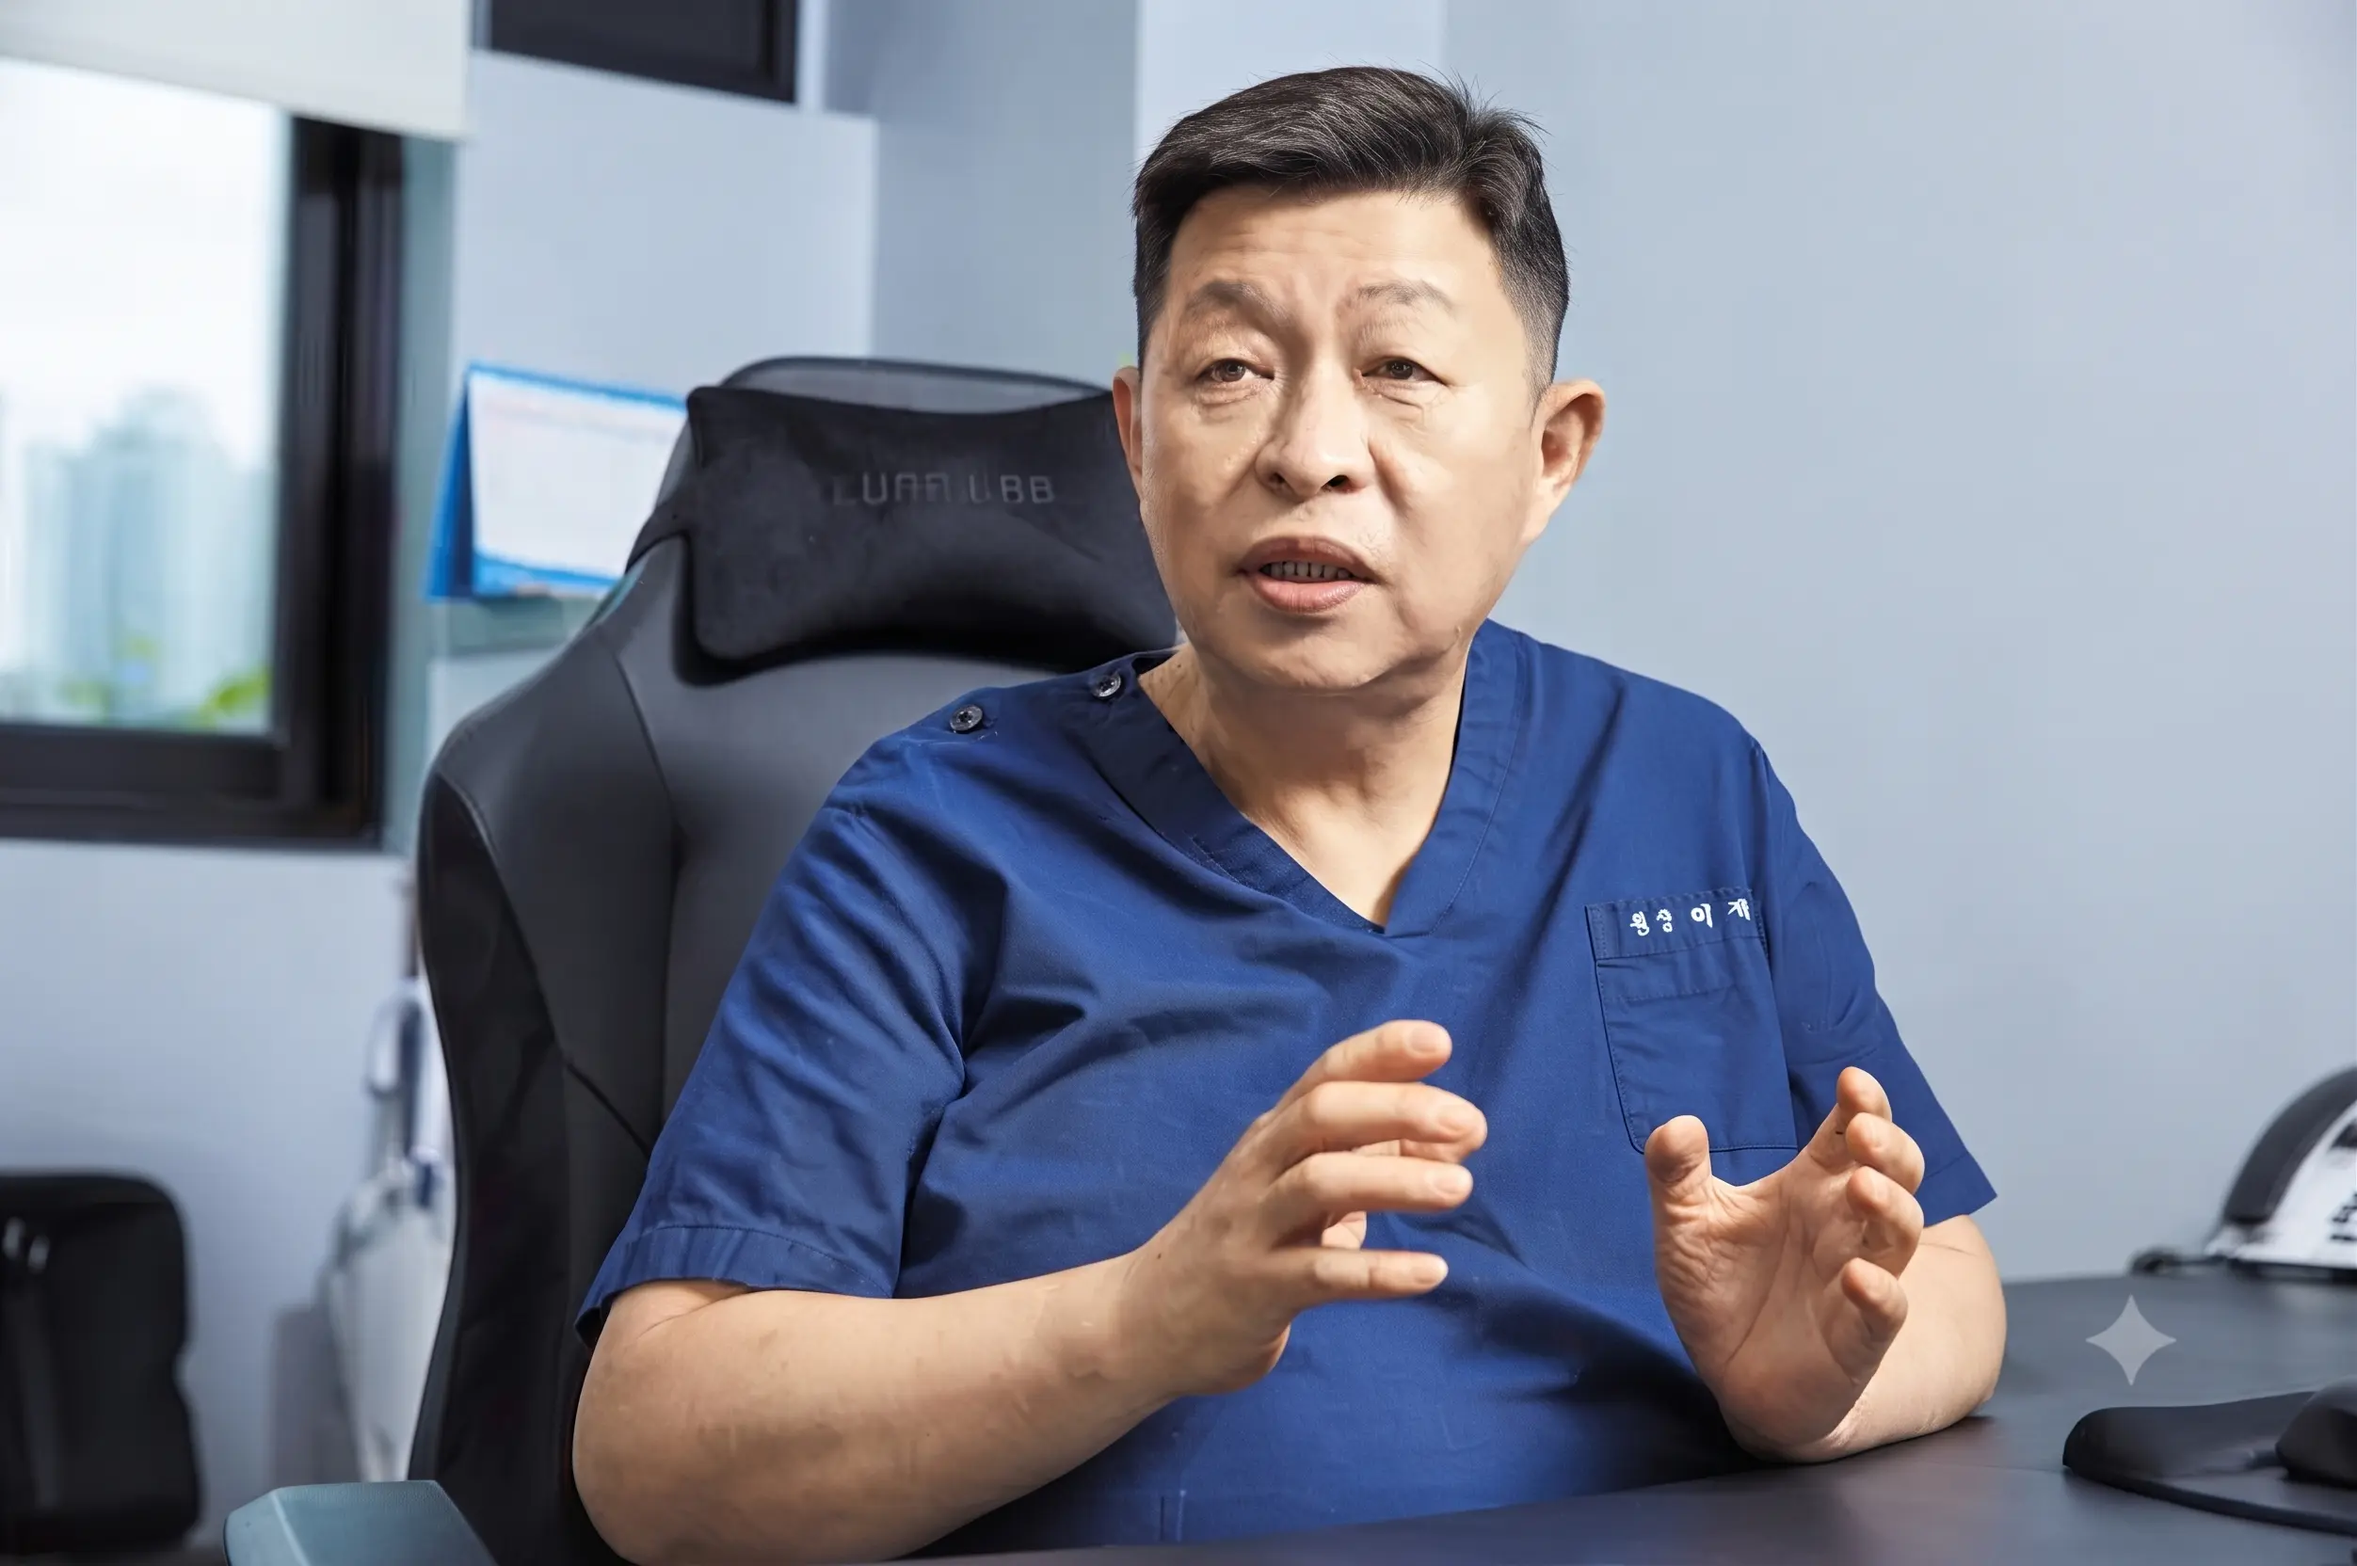
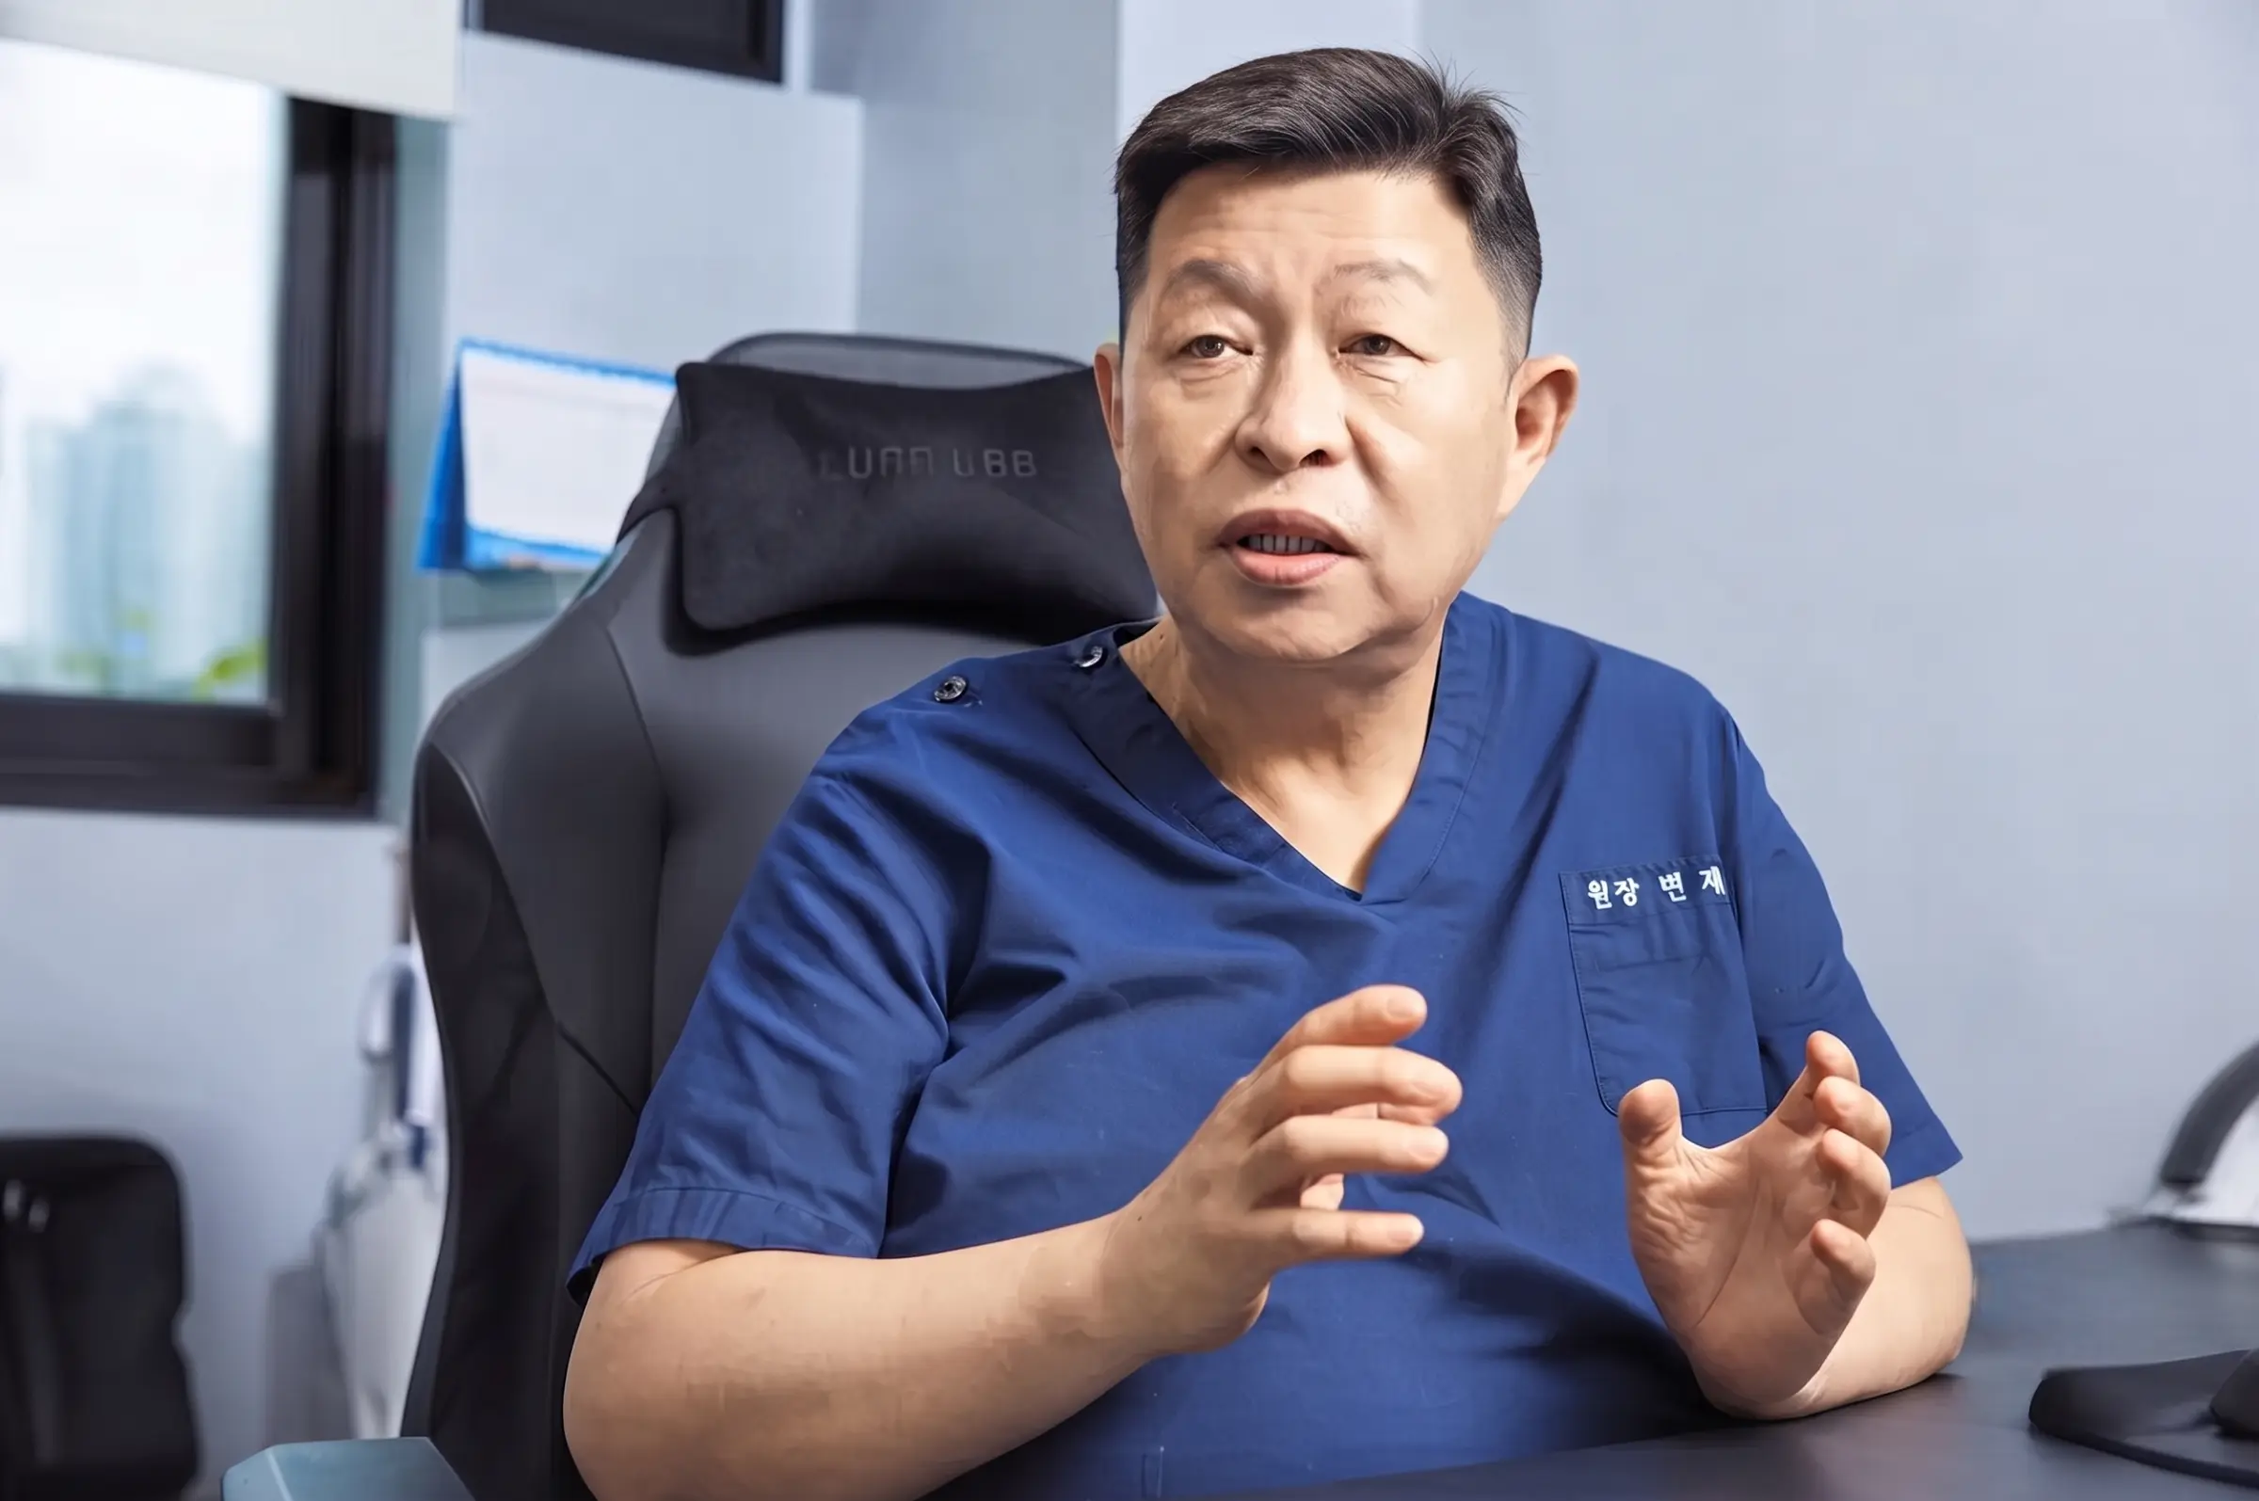
refactor: 이미지 및 문구 수정

Changed region(s): [[0.0, 0.0, 1.0, 1.0], [0.0, 0.7373, 0.0938, 0.8295], [0.375, 0.3072, 0.4062, 0.3379]]

diff --git a/app/components/hero/MainHero.vue b/app/components/hero/MainHero.vue
@@ -334,7 +334,7 @@ const slides: HeroSlide[] = [
     ],
 
     description:
-      '전립선비대증의 증상과 상태를 정확히 살피고 유로리프트, 리줌 등 환자에게 적합한 치료 방법을 안내합니다.',
+      '전립선비대증의 증상과 상태를 정확히 살피고 초기 대증 치료 및 약물치료부터 유로리프트, 리줌 등 환자에게 적합한 치료 방법을 안내합니다.',
 
     primary: {
       label: '전립선비대증',
